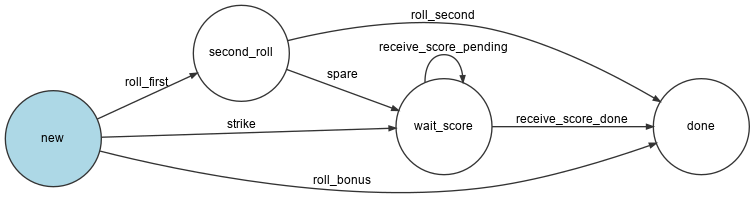
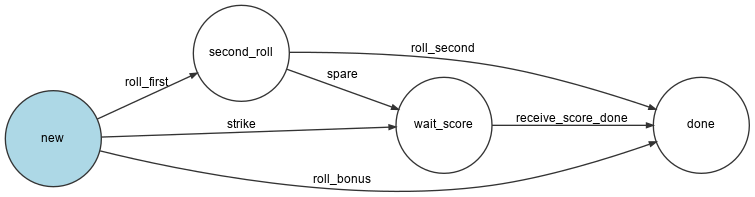
Fix workflows

diff --git a/src/MessageHandler/FrameMessageHandler.php b/src/MessageHandler/FrameMessageHandler.php
@@ -37,11 +37,11 @@ class FrameMessageHandler
             case 'new':
                 $new_messages = $this->atNew($frame, $message->getPinsRolled());
                 break;
-            case 'second_stage':
-                $new_messages = $this->atSecondStage($frame, $message->getPinsRolled());
+            case 'second_roll':
+                $new_messages = $this->atSecondRoll($frame, $message->getPinsRolled());
                 break;
-            case 'wait':
-                $this->atWait($frame, $message->getPinsRolled());
+            case 'wait_score':
+                $this->atWaitScore($frame, $message->getPinsRolled());
                 break;
         }
 
@@ -69,30 +69,39 @@ class FrameMessageHandler
         // if round is FRAMES_PER_GAME+1, player is throwing the bonus ball
         if ($frame->getRound() == Game::FRAMES_PER_GAME + 1) {
             // after ball is thrown, frame is done
-            $this->frameStateMachine->apply($frame, 'done');
+            $this->frameStateMachine->apply($frame, 'roll_bonus');
             yield new PlayerMessage($frame->getPlayer()->getId(), 0);
 
         } else if ($pins_rolled == Frame::PINS_PER_FRAME) {
             // player scored strike!
             $this->frameStateMachine->apply($frame, 'strike');
 
-            // will have to wait one/two roll propagations
+            // frame got a bonus for the next one/two rolls
             $frame->setScoreWait(match ($frame->getRound()) {
                 Game::FRAMES_PER_GAME => 1,
                 default => 2
             });
 
+            // create next player round
             yield new PlayerMessage($frame->getPlayer()->getId(), $frame->getRound() + 1);
 
         } else {
             // wait for second roll
-            $this->frameStateMachine->apply($frame, 'second_roll');
+            $this->frameStateMachine->apply($frame, 'roll_first');
         }
 
+        // force roll propagation to pending frames
         yield new FrameRollPropagation($frame->getId(), $pins_rolled);
     }
 
-    private function atSecondStage(Frame $frame, int $pins_rolled): iterable
+    /**
+     * User is rolling the second ball for this frame
+     *
+     * @param Frame $frame
+     * @param int $pins_rolled
+     * @return iterable
+     */
+    private function atSecondRoll(Frame $frame, int $pins_rolled): iterable
     {
         // do not allow more pins than frame's
         assert($frame->getRoll1() + $pins_rolled <= Frame::PINS_PER_FRAME);
@@ -100,47 +109,55 @@ class FrameMessageHandler
         // update roll2
         $frame->setRoll2($pins_rolled);
 
+        // all pins are down
         if ($frame->getRoll1() + $frame->getRoll2() == Frame::PINS_PER_FRAME) {
             // player scored spare!
             $this->frameStateMachine->apply($frame, 'spare');
 
-            // will have to wait one roll propagations
+            // frame got a bonus for the next roll
             $frame->setScoreWait(1);
         } else {
-            // frame is done
-            $this->frameStateMachine->apply($frame, 'done');
+            // not all pins went down, frame is done
+            $this->frameStateMachine->apply($frame, 'roll_second');
         }
+
+        // decide next frame, 0 means end game
         $next_frame = 0;
         if ($frame->getScore() == Frame::PINS_PER_FRAME || $frame->getRound() < Game::FRAMES_PER_GAME) {
-            $next_frame = $frame->getRound()+1;
+            // create new frame if got spare or game not finished
+            $next_frame = $frame->getRound() + 1;
         }
+
+        // propagate score to other frames
+        yield new FrameRollPropagation($frame->getId(), $pins_rolled);
 
         // generate new frame or end of game
         yield new PlayerMessage($frame->getPlayer()->getId(), $next_frame);
-
-        // 
-        yield new FrameRollPropagation($frame->getId(), $pins_rolled);
-
-        $this->entityManager->flush();
-
-        if ($frame->getState() == 'done') {
-            $this->bus->dispatch(new FrameMessage($frame->getId(), 0));
-        }
     }
 
-
-    private function atWait(Frame $frame, int $pins_rolled): void
+    /**
+     * Frame is waiting the next rolls in order to get the
+     * bonus score after scoring a strike/spare
+     *
+     * @param Frame $frame
+     * @param int $pins_rolled
+     * @return void
+     */
+    private function atWaitScore(Frame $frame, int $pins_rolled): void
     {
         // do not allow more pins than frame's
         assert($pins_rolled <= Frame::PINS_PER_FRAME);
         assert($frame->getScoreWait() > 0);
 
+        // append the pins rolled to the current frame
         $frame->setScore($frame->getScore() + $pins_rolled);
+
+        // decrement wait rolls
         $frame->setScoreWait($frame->getScoreWait() - 1);
 
+        // if pending wait rolls is zero, transition to done
         if ($frame->getScoreWait() == 0) {
-            $this->frameStateMachine->apply($frame, 'done');
+            $this->frameStateMachine->apply($frame, 'receive_score_done');
         }
     }
-
 }

diff --git a/src/MessageHandler/PlayerMessageHandler.php b/src/MessageHandler/PlayerMessageHandler.php
@@ -69,9 +69,22 @@ class PlayerMessageHandler
      */
     private function atPlaying(Player $player, int $next_round): iterable
     {
+        // set player final score
+        $final_score = 0;
+        $done_frames = $player->getFrames()->filter(function (Frame $frame) {
+            return $frame->getState() == 'done';
+        });
+        foreach ($done_frames as $frame) {
+            $final_score += $frame->getScore();
+        }
+
+        $player->setFinalScore($final_score);
+
+
         if ($next_round == 0) {
             // end game for this player
             $this->playerStateMachine->apply($player, 'end_game');
+
             yield new GameMessage($player->getGame()->getId());
         } else {
             // create a new frame for next round
